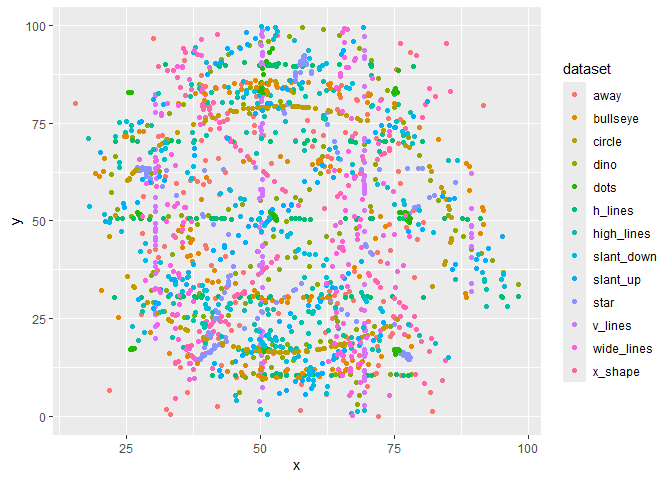
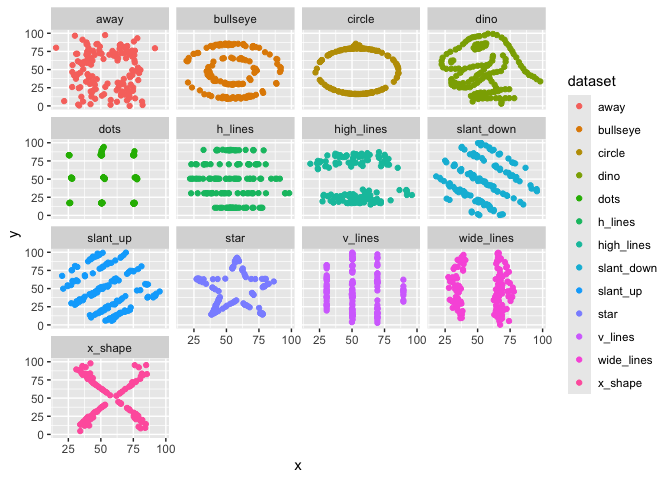
trial

diff --git a/Lab1.md b/Lab1.md
@@ -1,14 +1,34 @@
 Lab1
 ================
-Your Name
-2024-09-05
+Jo Starenky
+2024-09-16
 
 # Load Packages
 
 ``` r
 library(haven)
+library(tidyr)
+```
+
+    ## Warning: package 'tidyr' was built under R version 4.2.3
+
+``` r
+library(ggplot2)
+```
+
+    ## Warning: package 'ggplot2' was built under R version 4.2.3
+
+``` r
+library(datasauRus)
+```
+
+    ## Warning: package 'datasauRus' was built under R version 4.2.3
+
+``` r
 library(dplyr)
 ```
+
+    ## Warning: package 'dplyr' was built under R version 4.2.3
 
     ## 
     ## Attaching package: 'dplyr'
@@ -20,88 +40,6 @@ library(dplyr)
     ## The following objects are masked from 'package:base':
     ## 
     ##     intersect, setdiff, setequal, union
-
-``` r
-library(tidyr)
-library(ggplot2)
-library(ggstatsplot)
-```
-
-    ## Warning: package 'ggstatsplot' was built under R version 4.3.3
-
-    ## You can cite this package as:
-    ##      Patil, I. (2021). Visualizations with statistical details: The 'ggstatsplot' approach.
-    ##      Journal of Open Source Software, 6(61), 3167, doi:10.21105/joss.03167
-
-``` r
-library(psych)
-```
-
-    ## Warning: package 'psych' was built under R version 4.3.3
-
-    ## 
-    ## Attaching package: 'psych'
-
-    ## The following objects are masked from 'package:ggplot2':
-    ## 
-    ##     %+%, alpha
-
-``` r
-library(bruceR)
-```
-
-    ## 
-    ## bruceR (v2023.9)
-    ## Broadly Useful Convenient and Efficient R functions
-    ## 
-    ## Packages also loaded:
-    ## ✔ data.table ✔ emmeans
-    ## ✔ dplyr      ✔ lmerTest
-    ## ✔ tidyr      ✔ effectsize
-    ## ✔ stringr    ✔ performance
-    ## ✔ ggplot2    ✔ interactions
-    ## 
-    ## Main functions of `bruceR`:
-    ## cc()             Describe()  TTEST()
-    ## add()            Freq()      MANOVA()
-    ## .mean()          Corr()      EMMEANS()
-    ## set.wd()         Alpha()     PROCESS()
-    ## import()         EFA()       model_summary()
-    ## print_table()    CFA()       lavaan_summary()
-    ## 
-    ## For full functionality, please install all dependencies:
-    ## install.packages("bruceR", dep=TRUE)
-    ## 
-    ## Online documentation:
-    ## https://psychbruce.github.io/bruceR
-    ## 
-    ## To use this package in publications, please cite:
-    ## Bao, H.-W.-S. (2023). bruceR: Broadly useful convenient and efficient R functions (Version 2023.9) [Computer software]. https://CRAN.R-project.org/package=bruceR
-
-    ## 
-    ## NEWS: A new version of bruceR (2024.6) is available (2024-06-13)!
-    ## 
-    ## ***** Please update *****
-    ## install.packages("bruceR", dep=TRUE)
-
-    ## 
-    ## These packages are dependencies of `bruceR` but not installed:
-    ## - pacman, lmtest, vars, phia, GPArotation
-    ## 
-    ## ***** Install all dependencies *****
-    ## install.packages("bruceR", dep=TRUE)
-
-``` r
-library(ggsci)
-```
-
-    ## Warning: package 'ggsci' was built under R version 4.3.3
-
-``` r
-library(datasauRus)
-```
-
-    ## Warning: package 'datasauRus' was built under R version 4.3.3
 
 # First look of descriptive statistics
 
@@ -137,10 +75,20 @@ datasaurus_dozen %>%
 
 ``` r
 ggplot(datasaurus_dozen, aes(x = x, y = y, colour = dataset))+
-    geom_point()
+    geom_point() + facet_wrap(~dataset)
 ```
 
 ![](Lab1_files/figure-gfm/unnamed-chunk-3-1.png)<!-- -->
+
+``` r
+dino<- datasaurus_dozen %>%
+  filter(dataset == "dino")
+
+ggplot(dino, aes(x = x, y = y))+
+  geom_point (color="#FF13F0") + theme_void() + labs(title = "Hi, I'm a dino!") + theme(plot.title = element_text(hjust = 0.5, face = "bold", size = 20, color = "pink"))
+```
+
+![](Lab1_files/figure-gfm/unnamed-chunk-3-2.png)<!-- -->
 
 # Q1: What is the function of facet wrap? In what situation do you think you will use this function?
 
